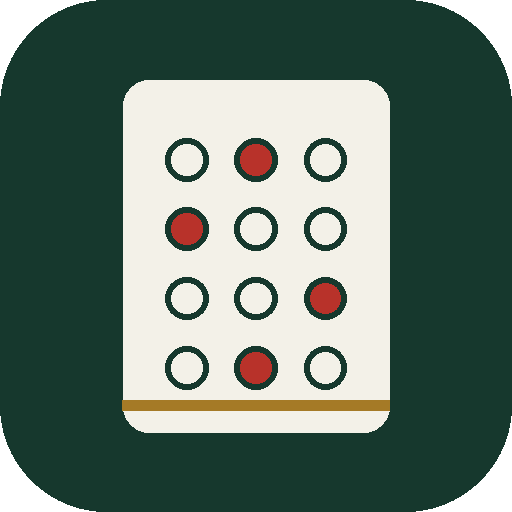
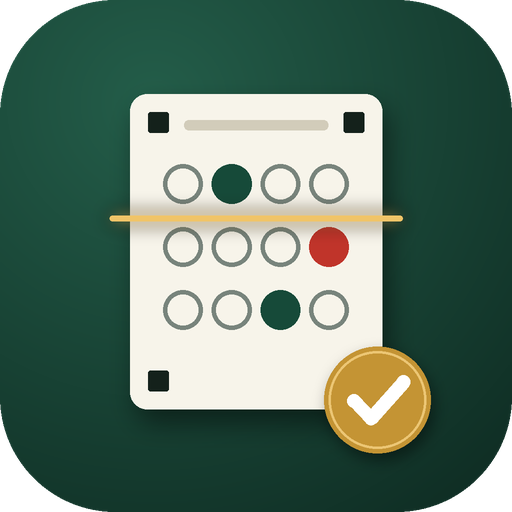
Đổi tên app thành ChamthiQM, biểu tượng mới (có biểu tượng thích ứng Android)
Claude-Session: https://claude.ai/code/session_01RdSeVetyfRakrQjgoTVNXn

diff --git a/index.html b/index.html
@@ -1,4 +1,5 @@
[2 lines of base64/hex data omitted]
+<title>ChamthiQM</title>
 <meta name="claude:viewport-fit-sides" content="cover">
 <link rel="preconnect" href="https://fonts.googleapis.com">
 <link rel="preconnect" href="https://fonts.gstatic.com" crossorigin>
@@ -169,7 +170,7 @@ ol.steps li{padding-left:4px}
 ol.steps li::marker{font-family:var(--fd);font-weight:600;color:var(--brass)}
 </style>
 
-<header class="bar"><button class="ib" id="backBtn" aria-label="Quay lại" hidden><svg width="24" height="24" viewBox="0 0 24 24" fill="none" stroke="currentColor" stroke-width="2.2" stroke-linecap="round" stroke-linejoin="round"><path d="M19 12H5M11 6l-6 6 6 6"/></svg></button><h1 id="barTitle">Chấm Thi THPT</h1><div id="barAct" class="row"></div></header>
+<header class="bar"><button class="ib" id="backBtn" aria-label="Quay lại" hidden><svg width="24" height="24" viewBox="0 0 24 24" fill="none" stroke="currentColor" stroke-width="2.2" stroke-linecap="round" stroke-linejoin="round"><path d="M19 12H5M11 6l-6 6 6 6"/></svg></button><h1 id="barTitle">ChamthiQM</h1><div id="barAct" class="row"></div></header>
 <main id="view"></main>
 <input type="file" id="fCam" class="vh" accept="image/*" capture="environment" tabindex="-1" aria-hidden="true">
 <input type="file" id="fGal" class="vh" accept="image/*" multiple tabindex="-1" aria-hidden="true">
@@ -1018,7 +1019,7 @@ const mi=(ic,t,s,goV,p)=>`<button class="mi" data-go="${goV}"${p?` data-p='${esc
 /* ---------- Trang chủ ---------- */
 V.home=async()=>{
  const nr=S.exams.length;let nb=0;for(const e of S.exams)nb+=(await DB.byExam(e.id)).length;
- return{title:'Chấm Thi THPT',html:`
+ return{title:'ChamthiQM',html:`
  <section class="hero"><div class="ey">Chấm trắc nghiệm · cấu trúc 2025</div><div class="t">Quét phiếu,<br>có điểm ngay.</div><div class="s">Đặt phiếu dưới camera, app tự căn chỉnh, chấm và lưu vào từng bài kiểm tra.</div>
  <div class="stats num"><div><b>${nr}</b><span>bài kiểm tra</span></div><div><b>${nb}</b><span>bài đã chấm</span></div><div><b>${S.classes.length}</b><span>lớp học</span></div></div></section>
  ${DB.mem?'<div class="warnbox">Trình duyệt này không cho lưu dữ liệu lâu dài. Bài chấm chỉ giữ đến khi đóng trang, hãy xuất kết quả trước khi thoát.</div>':''}
@@ -1363,19 +1364,19 @@ function parseKeyQR(t){
  return{name:decodeURIComponent(p[1]),tpl:p[2],n1,n2,n3,madeLen,p1pt:pts[0],p3pt:pts[1],p2pts:pts.slice(2,6),keys};
 }
 async function applyKeyQR(e,t){
- const Q=parseKeyQR(t);if(!Q){toast('Mã QR này không phải mã đáp án của app Chấm Thi.',5000);return;}
+ const Q=parseKeyQR(t);if(!Q){toast('Mã QR này không phải mã đáp án của app ChamthiQM.',5000);return;}
  if(Q.n1!==e.n1||Q.n2!==e.n2||Q.n3!==e.n3)toast(`Lưu ý: mã QR có số câu ${Q.n1}; ${Q.n2}; ${Q.n3}, bài này ${e.n1}; ${e.n2}; ${e.n3}. App lấy theo số câu của bài này.`,6000);
  if((Q.madeLen||3)!==(e.madeLen||3)){toast(`Mã QR dùng mã đề ${Q.madeLen} chữ số, bài này dùng ${e.madeLen||3} chữ số. Không nhập được.`,6000);return;}
  const ms=Object.keys(Q.keys);for(const m of ms)e.keys[m]=fitKey(e,Q.keys[m]);await DB.put('exams',e);await regradeAll(e);render();toast('Đã nhập '+ms.length+' mã đề từ mã QR: '+ms.join(', '),5000);
 }
 function examFromQR(t){
- const Q=parseKeyQR(t);if(!Q){toast('Mã QR này không phải mã đáp án của app Chấm Thi.',5000);return;}
+ const Q=parseKeyQR(t);if(!Q){toast('Mã QR này không phải mã đáp án của app ChamthiQM.',5000);return;}
  go('examForm',{pre:{file:'mã QR đáp án',name:Q.name,tpl:Q.tpl,n1:Q.n1,n2:Q.n2,n3:Q.n3,madeLen:Q.madeLen,p1pt:Q.p1pt,p3pt:Q.p3pt,p2pts:Q.p2pts,keys:Q.keys,made:Object.keys(Q.keys).sort(),miss:0}});
 }
 function showKeyQR(e){
  if(!need('qrcode','tạo mã QR'))return;
  let c;try{c=qrCanvas(keyQRString(e),6);}catch(err){toast('Đáp án quá dài để đưa vào một mã QR.',5000);return;}
- modal(`<h2>Mã QR đáp án</h2><div class="note">Đồng nghiệp mở app Chấm Thi → Danh sách chấm → + → Từ mã QR đáp án, rồi quét mã này. Bài kiểm tra được tạo với đủ ${Object.keys(e.keys).length} mã đề, số câu và cách tính điểm.</div>
+ modal(`<h2>Mã QR đáp án</h2><div class="note">Đồng nghiệp mở app ChamthiQM → Danh sách chấm → + → Từ mã QR đáp án, rồi quét mã này. Bài kiểm tra được tạo với đủ ${Object.keys(e.keys).length} mã đề, số câu và cách tính điểm.</div>
  <div id="qrBox" style="background:#fff;border-radius:12px;padding:8px;align-self:center;max-width:100%"></div>
  <div class="row" style="justify-content:flex-end"><button class="btn" data-m="x">Đóng</button><button class="btn pri" data-m="save">Lưu ảnh mã QR</button></div>`,async a=>{if(a==='save'){saveFile('QR_dap_an_'+safeName(e.name).replace(/ /g,'_')+'.png',await canvasBlob(c,'image/png'));return false;}});
  c.style.cssText='width:min(300px,100%);height:auto;display:block;image-rendering:pixelated';$('#qrBox').appendChild(c);
@@ -1436,7 +1437,7 @@ async function viewerBoot(){
   $('#vList').innerHTML=L.map((s,i)=>`<button class="res" data-i="${st.indexOf(s)}"><span><b style="font-size:15px">${esc(s[1]||'SBD '+s[0])}</b><span class="note num" style="display:block">SBD ${esc(s[0])} · Mã đề ${esc(s[6])}</span></span><span class="rs"><span class="score">${s[2]==null?'–':fmt(s[2])}</span></span></button>`).join('')||'<div class="empty">Không tìm thấy.</div>';};
  $('#view').innerHTML=`<section class="hero"><div class="ey">Kết quả bài kiểm tra</div><div class="t" style="font-size:28px">${esc(P.t)}</div><div class="s">${esc(P.c||'')} · ${st.length} học sinh · điểm tối đa ${fmt(P.x)}</div></section>
  <input class="in" id="vQ" placeholder="Tìm theo SBD hoặc họ tên" inputmode="search"><div class="menu" id="vList"></div>
- <div class="note">Trang này chỉ để xem. Điểm do thầy cô chấm bằng app Chấm Thi.</div>`;
+ <div class="note">Trang này chỉ để xem. Điểm do thầy cô chấm bằng app ChamthiQM.</div>`;
  draw('');$('#vQ').oninput=ev=>draw(ev.target.value.trim());
  $('#vList').onclick=ev=>{const b=ev.target.closest('[data-i]');if(!b)return;const s=st[+b.dataset.i],w=wrongs(s);
   modal(`<h2>${esc(s[1]||'SBD '+s[0])}</h2><div class="meta num"><span>SBD ${esc(s[0])}</span><span>Mã đề ${esc(s[6])}</span></div>
@@ -1819,7 +1820,7 @@ V.guide=async()=>({title:'Hướng dẫn',html:`
  <div class="card"><h3>Mẹo để máy đọc chính xác</h3><div class="note">Chụp nơi đủ sáng, tránh bóng tay và bóng điện thoại đổ lên phiếu. Để phiếu phẳng, không gấp góc. Phiếu nên chiếm phần lớn khung hình, đủ 4 ô vuông đen. Nếu bút chì quá nhạt, giảm Độ nhạy trong Cài đặt.</div></div>`});
 
 /* ================= KHỞI ĐỘNG ================= */
-window.__ctUpdated=()=>{modal(`<h2>App vừa được cập nhật</h2><div class="note">Đã tải bản mới nhất của app Chấm Thi. Tải lại để dùng ngay, dữ liệu vẫn giữ nguyên.</div><div class="row" style="justify-content:flex-end"><button class="btn" data-m="x">Để sau</button><button class="btn pri" data-m="r">Tải lại</button></div>`,a=>{if(a==='r')location.reload();});};
+window.__ctUpdated=()=>{modal(`<h2>App vừa được cập nhật</h2><div class="note">Đã tải bản mới nhất của app ChamthiQM. Tải lại để dùng ngay, dữ liệu vẫn giữ nguyên.</div><div class="row" style="justify-content:flex-end"><button class="btn" data-m="x">Để sau</button><button class="btn pri" data-m="r">Tải lại</button></div>`,a=>{if(a==='r')location.reload();});};
 window.__ctBack=()=>{const lv=document.querySelector('.live');if(lv){const b=lv.querySelector('#lStop,#qStop');if(b)b.click();return true;}const md=document.querySelector('.modal');if(md){md.remove();return true;}if(S.stack.length>1){back();return true;}return false;};
 (async()=>{if(location.hash.startsWith('#kq=')){viewerBoot();return;}await DB.open();await loadAll();S.stack=[{v:'home',p:{}}];render();})();
 window.__ct={dbg:{findMarkers,toGray},TPLS,lay,drawSheet,analyzeCanvas,grade,eqAns,DB,loadAll,fontsReady};

diff --git a/android/app/src/main/java/vn/chamthi/app/MainActivity.java b/android/app/src/main/java/vn/chamthi/app/MainActivity.java
@@ -199,7 +199,7 @@ public class MainActivity extends Activity {
             try {
                 byte[] fresh = download(WEB_URL);
                 String head = new String(fresh, 0, Math.min(fresh.length, 4000), "UTF-8");
-                if (fresh.length > 100000 && head.contains("Chấm Thi") && !Arrays.equals(fresh, currentWeb())) {
+                if (fresh.length > 100000 && (head.contains("Chấm Thi") || head.contains("ChamthiQM")) && !Arrays.equals(fresh, currentWeb())) {
                     File dir = new File(getFilesDir(), "web");
                     dir.mkdirs();
                     File tmp = new File(dir, "index.html.tmp");
@@ -213,7 +213,7 @@ public class MainActivity extends Activity {
                 int mine = getPackageManager().getPackageInfo(getPackageName(), 0).versionCode;
                 if (latest > mine) runOnUiThread(() -> new AlertDialog.Builder(MainActivity.this)
                         .setTitle("Có bản cài đặt mới")
-                        .setMessage("Đã có app Chấm Thi bản " + latest + " (máy đang dùng bản " + mine + "). Tải về và cài đè lên, dữ liệu vẫn giữ nguyên.")
+                        .setMessage("Đã có app ChamthiQM bản " + latest + " (máy đang dùng bản " + mine + "). Tải về và cài đè lên, dữ liệu vẫn giữ nguyên.")
                         .setPositiveButton("Tải về", (d, w) -> {
                             try { startActivity(new Intent(Intent.ACTION_VIEW, Uri.parse(APK_URL))); } catch (Exception ignored) { }
                         })

diff --git a/README.md b/README.md
@@ -1,4 +1,4 @@
-# Chấm Thi THPT
+# ChamthiQM
 
 App chấm trắc nghiệm theo cấu trúc đề thi tốt nghiệp THPT từ 2025: quét phiếu bằng camera điện thoại, có điểm ngay, xuất bảng điểm Excel, mã QR đáp án và mã QR tra điểm cho học sinh.
 
